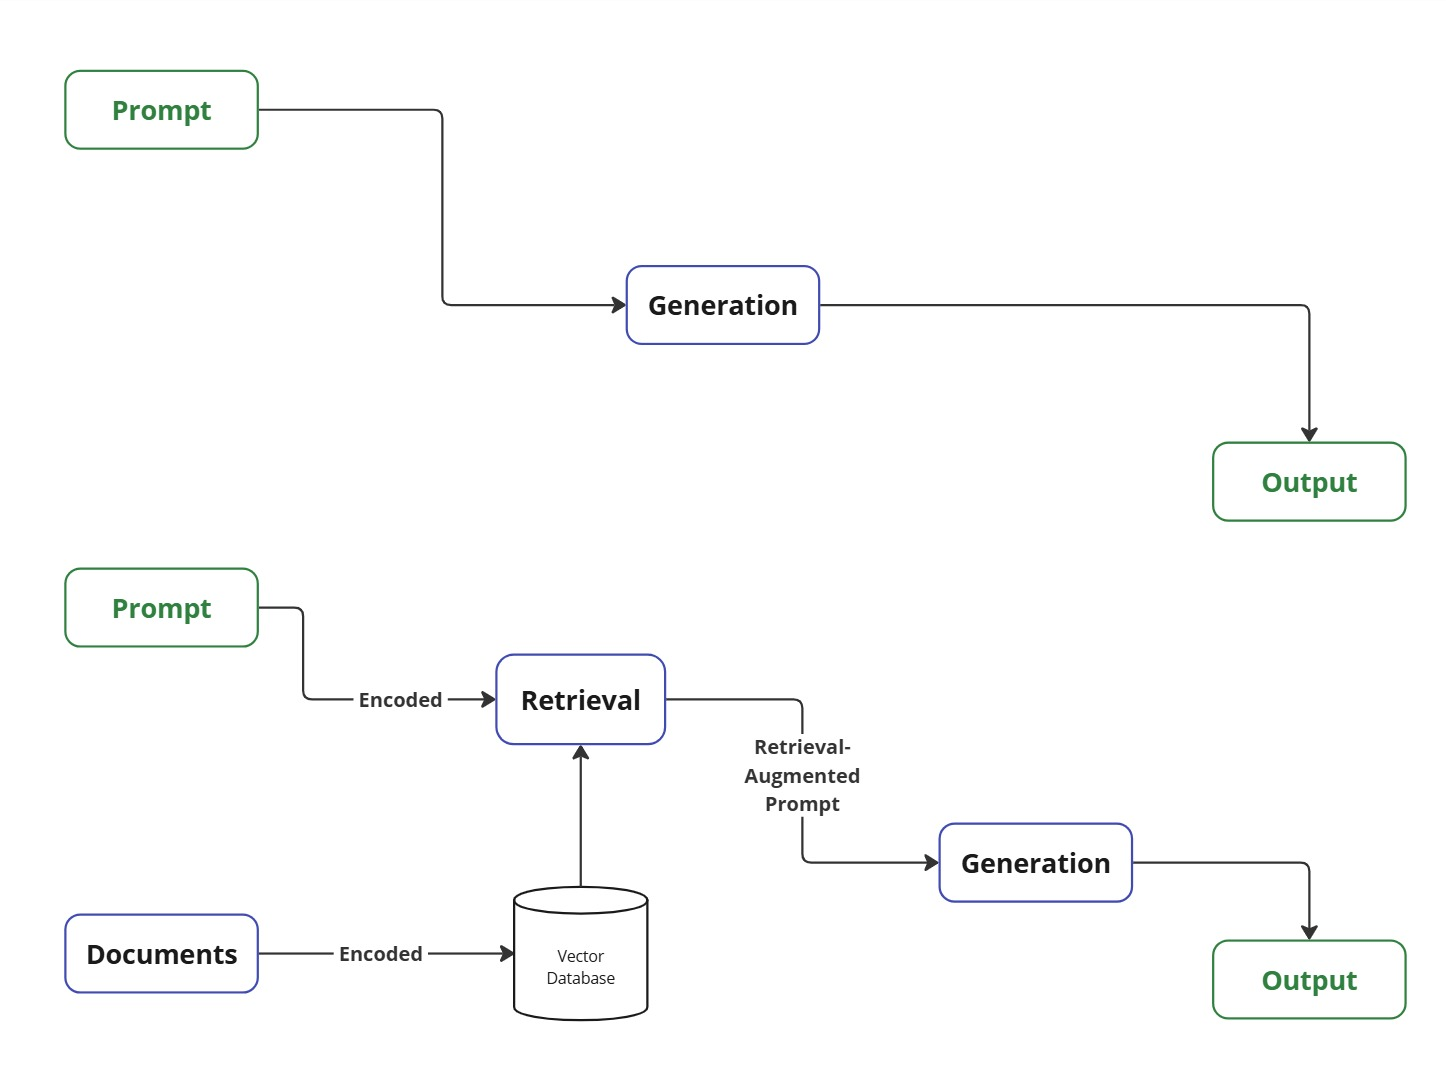
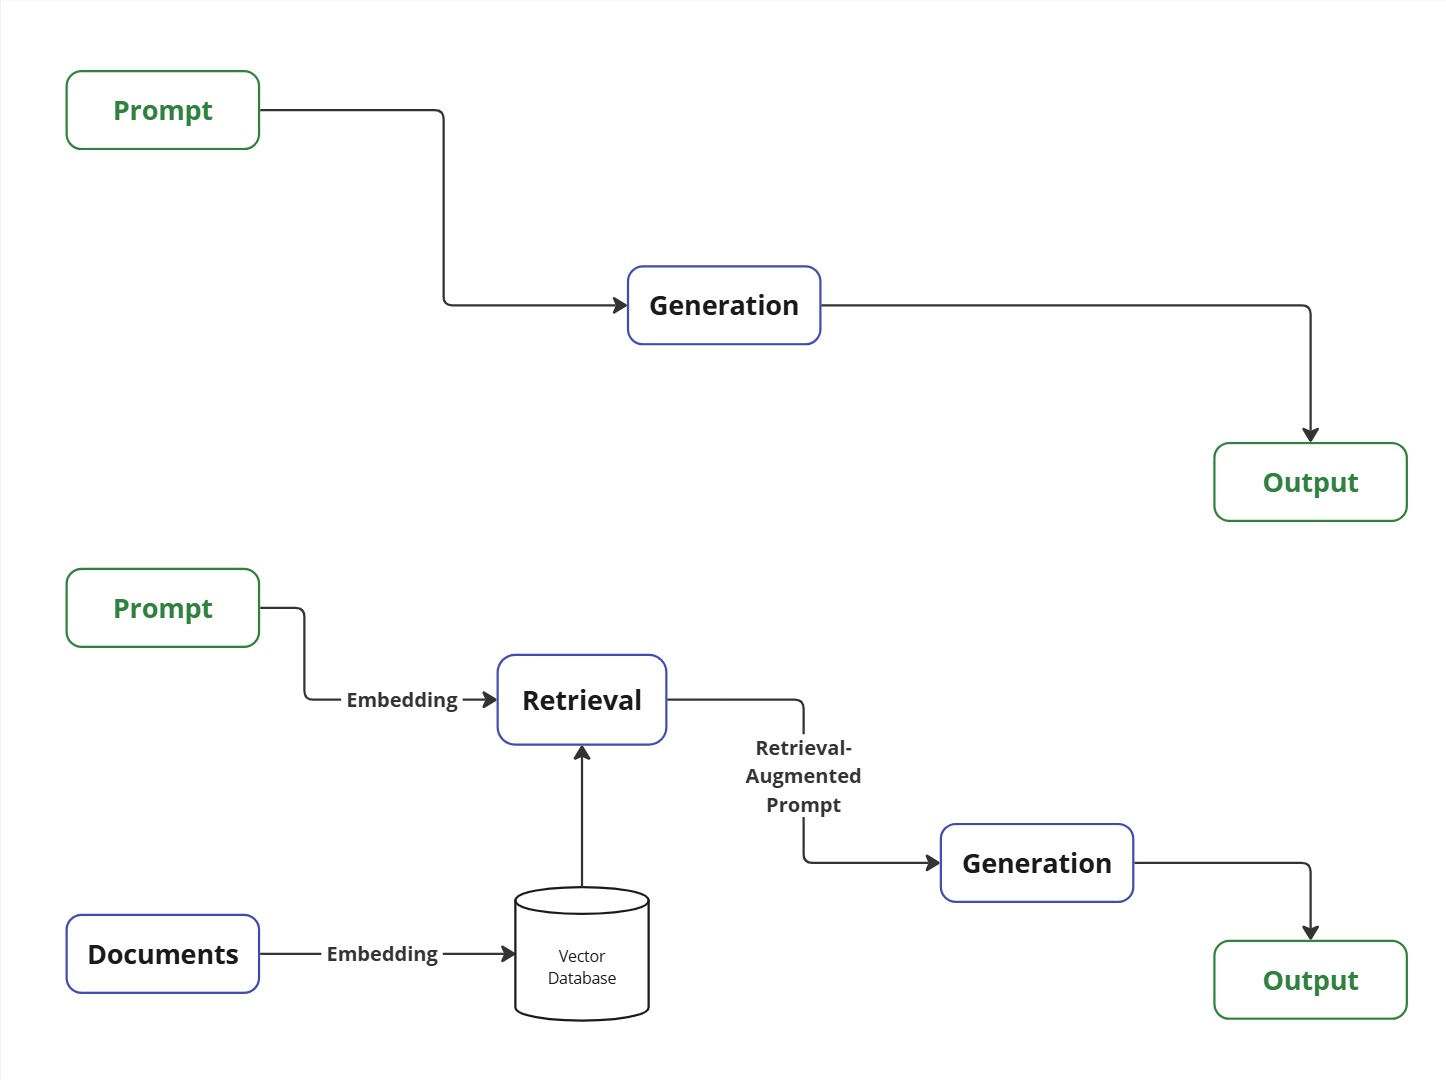
Enhance text retrieval chapter with updated embedding model insights and refine introduction for clarity

diff --git a/latex/3 thesis/chapters/23_Retrieval_Augmented_Generation.tex b/latex/3 thesis/chapters/23_Retrieval_Augmented_Generation.tex
@@ -5,7 +5,7 @@ Factual wrong output from an LLM can have several reasons. The required informat
 
 This concept is very successful as \citet{Shuster.} showed. Factual wrong outputs are reduced and open-domain conversational capabilities are increased. \citet{Yu.2024} concluded that this improves the reliability and richnes of the produced content. \citet{Chen.2024} stated that external knowledge would be the key for resolving the above stated problems of LLMs, which make them more accurate and reliable.
 
-There is a high variety in architectures and approaches for retrieval-augmented generation models. In this section, we will give an overview of the most common approaches and architectures and start with the most basic ones. The section will follow the definition of RAGs in \citet{Gao.18.12.2023} with naive RAGS, advanced RAGs, a modular architecture, and special cases. 
+There is a high variety in architectures and approaches for retrieval-augmented generation models. In this section, I will give an overview of the most common approaches and architectures and start with the most basic ones. The section will follow the definition of RAGs in \citet{Gao.18.12.2023} with naive RAGs, advanced RAGs, a modular architecture, and special cases. 
 
 \subsection{Naive RAGs}
 \label{sec:naive_rags}
@@ -14,37 +14,81 @@ Naive RAGs can be seen as the most basic form of a retrieval-augmented generatio
 
 \begin{figure}[h!]
     \centering
-    \includegraphics[width=0.75\textwidth]{images/LLM-vs-RAG.jpg}
-    \caption{Comparison of the process to the prompt, above a standalone LLM that has a prompt and generate a response, below a RAG system that performs on a given set of documents and encoding or indexing and searchs for the most similar documents for a given prompt at inference time. Both prompt and documents are used for the generation process.}
+    \includegraphics[width=\textwidth]{images/LLM-vs-RAG.jpg}
+    \caption{Comparison of the process to the prompt, above a standalone LLM that has a prompt and generate a response, below a RAG system that performs on a given set of documents an embedding or indexing and searchs for the most similar documents for a given prompt at inference time. Both prompt and documents are used for the generation process.}
     \label{fig:naive_rag}
 \end{figure}
 
 This procedure can be seen in figure \ref{fig:naive_rag}. In the literature the generation process is often refered as \textit{read}, because it reads the prompt and the provided context. In \citet{Gao.18.12.2023} they define the naive RAG system as \textit{Retrieve-Read}. The retrieval can be done with sparse retrieval (TF-IDF, BM25), dense retrieval (DPR) or a hybrid version as showed in section \ref{retrieval}. 
 
-\citet{Gao.18.12.2023} listed several drawbacks for naive RAGs. The basic retrieval suffers from unsufficient recall and precision scores leading in irrelevant documents, missing context and bias. The integration of the provided context is a challenging process. The generator often overrelies on the augmented information, by just repeating the retrieved content and missing insightful conclusions. Therefore this simplistic form of RAG needs advanced techniques to overcome this issues. 
+\begin{figure}[h!]
+    \centering
+    \includegraphics[width=\textwidth]{images/VectorDB.jpg}
+    \caption{A vector space including mapped facts (documents) and a user query. The query and its correct answer have similar vectors}
+    \label{fig:vectorDB}
+\end{figure}
+
+
+Before the system can be used, it is necessary to ingest data. The ingestion process includes preprocessing and selection of data, that users are likely to need for their questions or use-cases. Therefore it is relevant to know the user base. It is not feasible nor efficient to ingest all availlable data. The data is transformed into documents or chunks of documents. There are multiple ways to do this, which are described in advanced techniques. As described in \ref{sec:dense_retrieval}, the chunks are then encoded and mapped into a d-dimensional real-valued vector space. There is a simplistic minimal example of a vector space in figure \ref{fig:vectorDB}. The documents gets mapped in different loactions within the space. The assumption is, that the embedding model will map correct answers to the corresponding queries. In reality there will be more documents close to each other, documents and queries are longer or more complex and each query will return the "Top-K" chunks or documents, which are not always as relevant as in this example. Top-K can be seen as hyperparamter for the system. 
+
+The vectors are then stored in so called vector databases. Such databases are specialized and include functionalities like inverted indices, clustering of precomputed vector similarities, approximate nearest neighbor algorithm, hierarchical navigable small world and quantizations, which will not be covered in this master thesis.  
+
+
+\citet{Gao.18.12.2023} listed several drawbacks for naive RAGs. The basic retrieval suffers from unsufficient recall and precision scores leading in irrelevant documents, missing context and bias. The integration of the provided context is a challenging process. The generator often overrelies on the augmented information, by just repeating the retrieved content and missing insightful conclusions. Therefore this simplistic form of RAG needs advanced techniques to overcome those issues. 
 
 \subsection{Advanced RAGs}
 \label{sec:advanced_rags}
 
+There is no strict definition of advanced versions of retrieval-augmented generation systems. The term describes a loose bundle of techniques to improve the quality of such systems. Following is a list, which items I will explain in greater details afterwards.
 
+\paragraph{Chunking}
+\label{sec:chunk}
+% graphic for techniques, such as overlap, fixed sized (sliding window approach), semantic chunks, ...
+For understanding the necessarity of chunking it is helpful to illustrate it with a following example. Let us use a sentence from \citeauthor{LeipzigWikipedia.2025} for Leipzig from \citeyear{LeipzigWikipedia.2025}. In the section "Music" there is the following sentence. 
+
+\begin{quote}
+    "Johann Sebastian Bach spent the longest phase of his career in Leipzig, from 1723 until his death in 1750, conducting the Thomanerchor (St. Thomas Church Choir), at the St. Thomas Church, the St. Nicholas Church and the Paulinerkirche, the university church of Leipzig (destroyed in 1968)."
+\end{quote}
+
+If there are thousands of wikipedia pages or websites to process, then this can not be splitted manually. What is the document or a good chunk in this context. If the query asks if Johann Sebastian Bach lived in Leipzig, then embedding the whole sentence would not guarantee a high similarity vector score in the retrieval process. This differs from domain to domain. While chunking facts from sentences might be a valid strategy for wikipedia, processing internal contracts in a large company would need less granular chunking. 
+
+Therefore there are several chunking techniques to consider for tuning the RAG-system. Fixed-Size chunking splits a document after a fixed size of characters, e. g. every 400 characters a chunk ends and a new one starts. The sliding window approach adds a overlap of few characters. Semantic Chunking splits with prior defined characters such as "\textit{$\backslash n$, $\backslash\backslash n$ or <br>}". There are also special use-case techniques such as Markdown, JSON, HTML and programming code chunkers. Almost all presented chunking techniques are offered in typical libraries e. g. Llama-Index (\citet{Liu_LlamaIndex_2022}) or Langchain (\citeauthor{Chase_LangChain_2022}).
+
+Additional to advanced chunking, it is recommended to enrich the resulting documents with metadata, which can be used at inference time for filtering. 
+
+% ToDo: 
+% - Just Write them Down!
+% - Drawbacks
+% - Point of Failures in RAGs
+% - Überleitung zu Evaluation
 
 \paragraph{Rewrite}
 \label{sec:rewrite}
+% Query Rewriting, Query Transformation, Query Expansion (see. papers)
 
 \paragraph{Rerank}
 \label{sec:rerank}
+% Reranking Techniques, Lost-in-The-Middle?, Diversity Ranking, ... 
 
 \paragraph{Iterative RAGs}
 \label{sec:iterative}
+% Short description with graphic
 
 \paragraph{Recursive RAGs}
 \label{sec:recursive}
+% Short description with graphic
 
 \paragraph{Adaptive RAGs}
 \label{sec:adaptive}
+% Short description with graphic
 
 \subsection{General Modular RAG}
 \label{sec:modular_rag}
+% The core idea behind it, to be as flexible as possible and bridge to special cases
 
 \subsection{Special Cases}
 \label{sec:special_cases}
+% short list of special cases
+
+\subsection{Drawbacks of RAGs}
+\label{sec:drawbacks}

diff --git a/latex/3 thesis/chapters/10_introduction.tex b/latex/3 thesis/chapters/10_introduction.tex
@@ -1,6 +1,6 @@
 The year 2017 can be stated as the beginning of the interesting journey of artificial intelligent language models. With the publication of "Attention is all you need" from \citet{vaswani2023attentionneed} the rapid development of language models and later large language models (LLMs) took of. 
 
-Today we have a variety of real world products that are using this technology, such as content generators like ChatGPT (\citet{OpenAI_2022}) or Claude (\citet{Anthropic_2023}), translators like DeepL (\citet{DeepL_SE}) and Coding Assistants like Github Copilot (\citet{Friedman_2022}). The list can be expanded with technologies like sentiment analysis, question answering systems, market research or education systems. Open-source models are available for each of these technologies, providing strong alternatives to proprietary services.
+Today there is a variety of real world products that are using this technology, such as content generators like ChatGPT (\citet{OpenAI_2022}) or Claude (\citet{Anthropic_2023}), translators like DeepL (\citet{DeepL_SE}) and Coding Assistants like Github Copilot (\citet{Friedman_2022}). The list can be expanded with technologies like sentiment analysis, question answering systems, market research or education systems. Open-source models are available for each of these technologies, providing strong alternatives to proprietary services.
 
 The remarkably capacity of large language models has led to wide acceptance in society. However LLMs have fundamental problems that can not be solved with more training or larger models. Training models frequently is expensive, so daily training isn't feasible. Therefore every new information such as elections, weather or sport results which occurred between last training and user prompt are unknown to the model. On top of that, models can only be trained on available data. Private informations of users that might be relevant for the prompt are not considered in the generation process. LLMs struggle also with long-tail information, which occures rarely in the training data (\citet{Kandpal.15.11.2022}).
 

diff --git a/latex/3 thesis/chapters/22_Text_Retrieval.tex b/latex/3 thesis/chapters/22_Text_Retrieval.tex
@@ -30,6 +30,8 @@ The BM25 score is an advanced version of the TF-IDF score with two free paramete
 
 Dense Passage Retrieval as shown in \citet{karpukhin2020densepassageretrievalopendomain} utilizes Bidirectional Encoder Representation from Transformers (BERT, \citet{devlin2019bertpretrainingdeepbidirectional}). BERT can be seen as the encoders part of an sequence-to-sequence transformers architecture. Therefore it can be used to encode the text passages used as contexts at the classification token [CLS]. The text is thus mapped into an d-dimensional real-valued space with the assumption that semnatic similar passages are close to each other in this space. The query is also encoded into this space and the similarity between the mapped query vector and each passage vector is calculated. The similarity is calculated by the dot product or other similarity functions. The top-k similar passages are then selected and used for the generation.
 
+Nowadays there are highly specialized embedding models, that are benchmarked and listed on the Huggingface MTEB as described in \citet{muennighoff2022mteb}. Even though the MTEB leaderboard suggests a best-of-all embedding model, there is no such thing. Embedding models are language- and domain-sensitive as \citet{Gao.18.12.2023} points out. 
+
 \subsection{Hybrid Retrieval}
 \label{sec:hybrid_retrieval}
 
